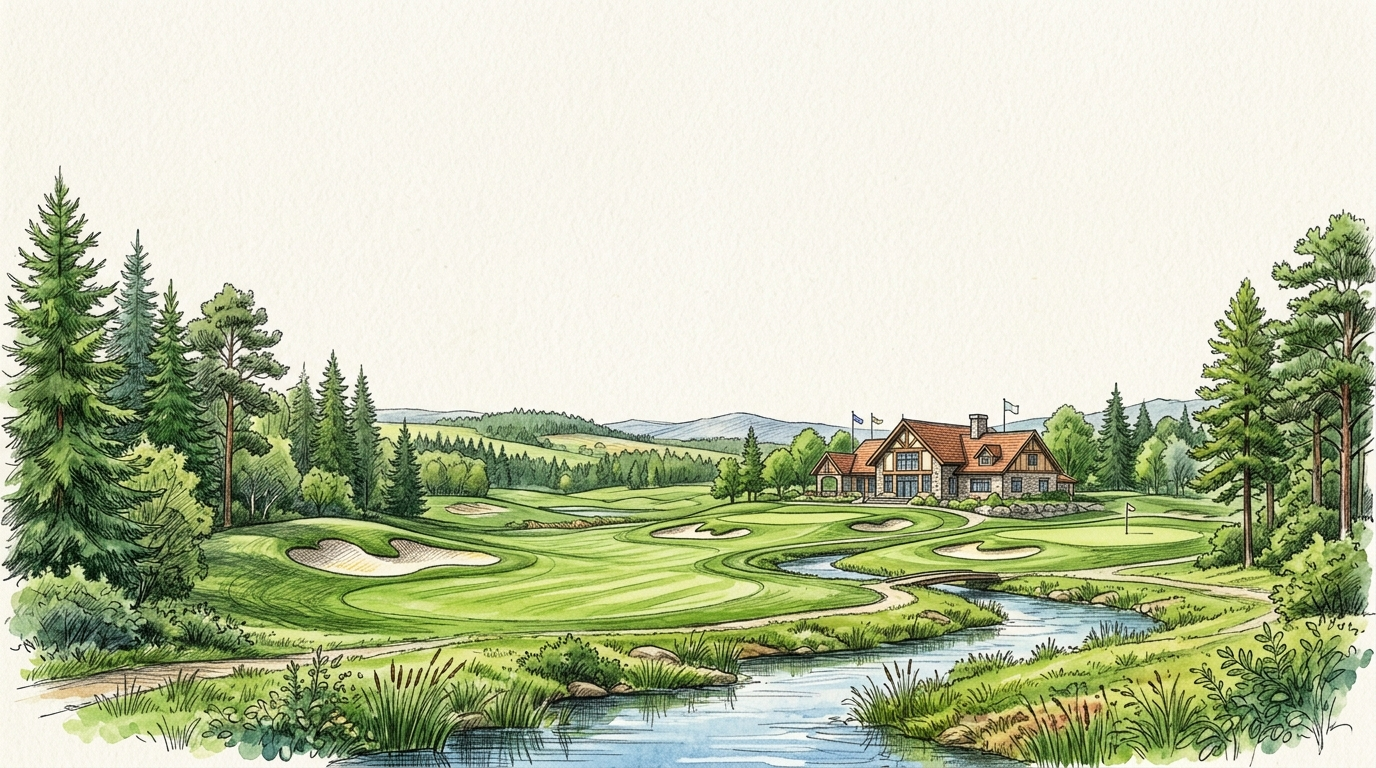
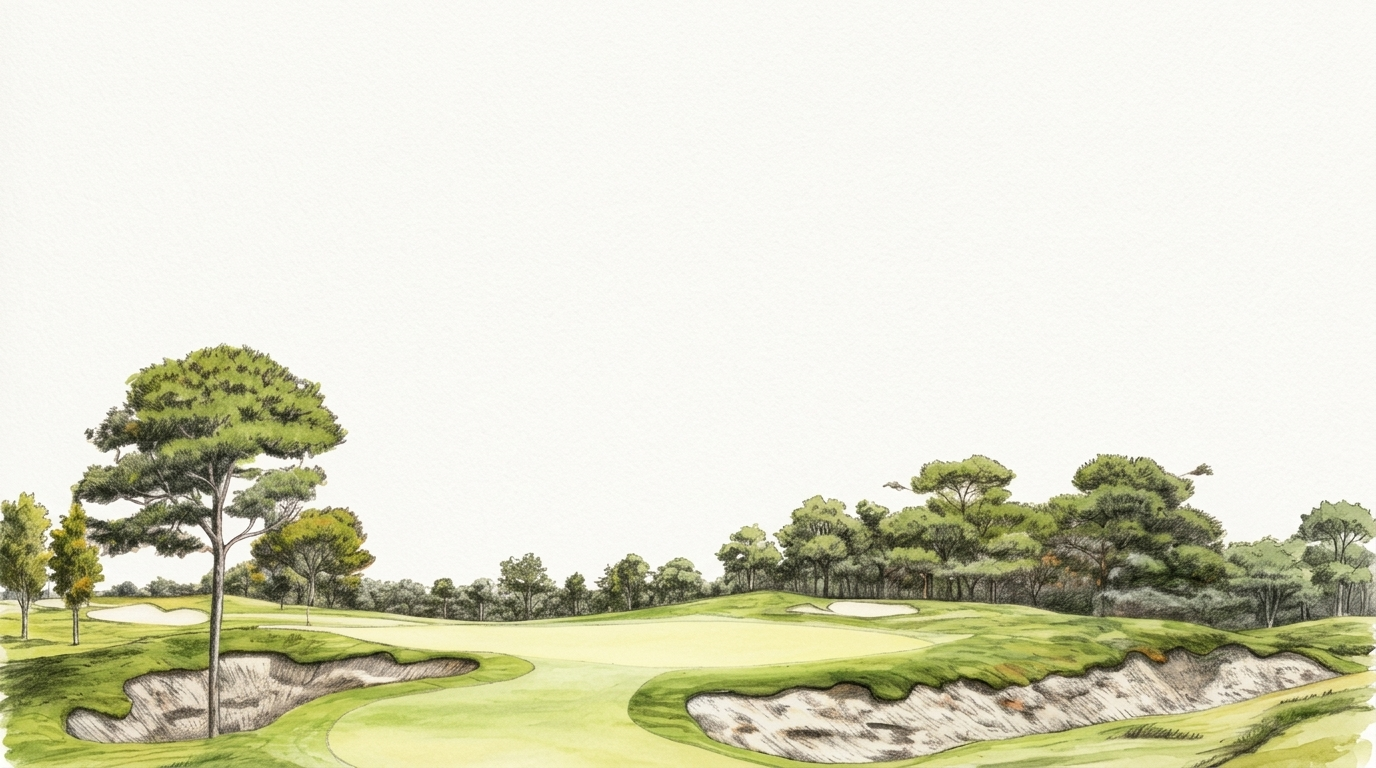
style(login): update backdrop image to match reference pine tree landscape exactly

diff --git a/app/login/page.tsx b/app/login/page.tsx
@@ -98,8 +98,7 @@ function LoginForm() {
         height: "100vh",
         zIndex: 9999,
         overflowY: "auto",
-        background: "#f7f6f0 url('/noyyal_green_landscape_backdrop.jpg') no-repeat bottom center",
-        backgroundSize: "100% auto",
+        background: "#faf9f6 url('/noyyal_green_landscape_backdrop.jpg') no-repeat bottom center / cover",
         display: "flex",
         flexDirection: "column",
         justifyContent: "space-between",
